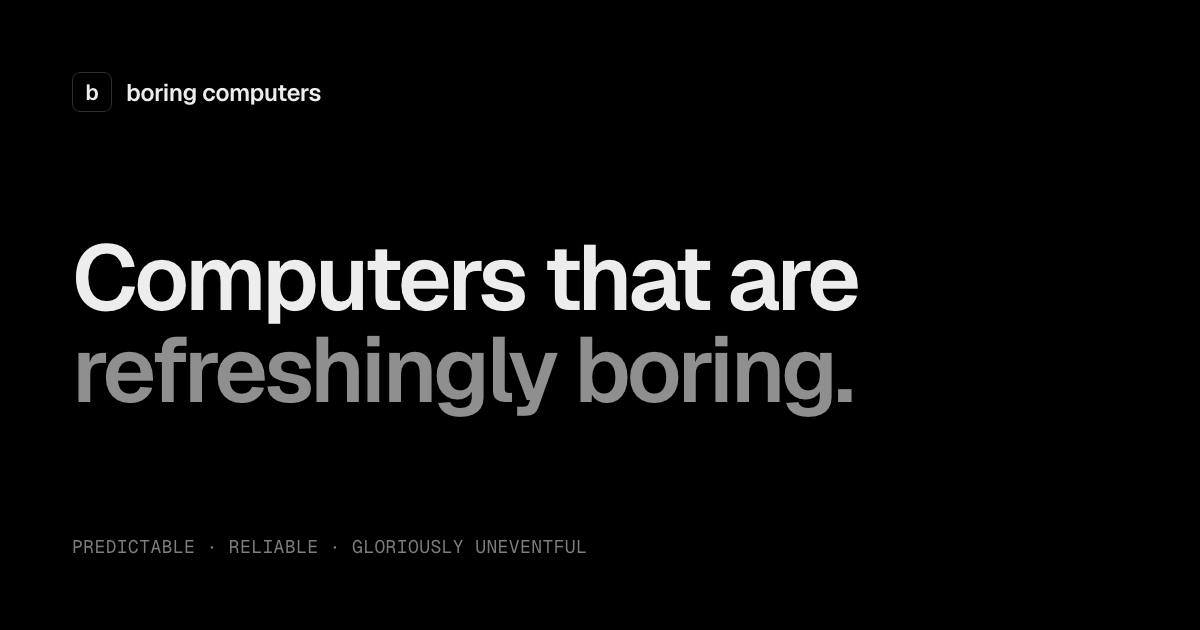
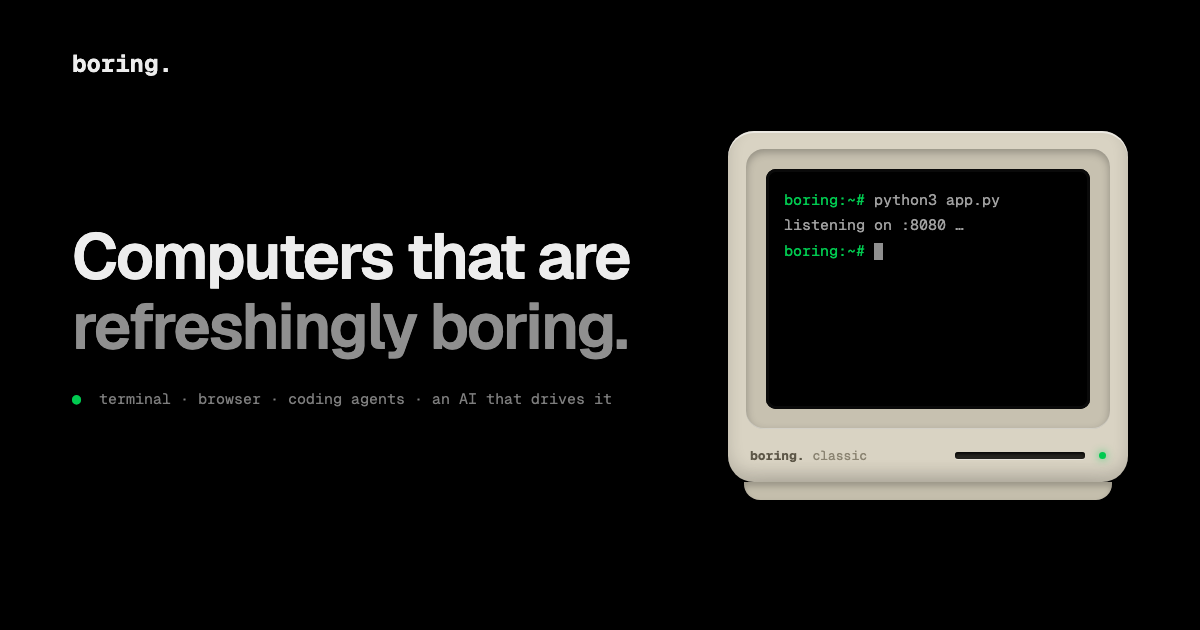
Feature: file upload / download
Drag a file onto the computer to upload it to /root; a path box downloads a file
back out. boringd (files.go) starts a one-shot node TCP helper in the guest via
a short serial command, then streams the file over the guest network — the
serial console can't move bulk data (tty input overflow past a few KB).
Verified byte-identical round-trips at 8 KB and 1 MB. Needs a connected machine
(desktop or internet-on shell).

diff --git a/apps/web/src/lib/Workstation.svelte b/apps/web/src/lib/Workstation.svelte
@@ -53,6 +53,63 @@
 		if (e.key === 'Enter') openPreview();
 	}
 
+	// File transfer: drag-drop to upload into /root, a path box to download.
+	let dragOver = $state(false);
+	let fileMsg = $state('');
+	let dlPath = $state('');
+
+	async function uploadFiles(files: FileList | File[]) {
+		if (!machine) return;
+		for (const f of Array.from(files)) {
+			fileMsg = `⤒ uploading ${f.name}…`;
+			try {
+				const res = await fetch(`${apiBase}/v1/machines/${machine.id}/upload`, {
+					method: 'POST',
+					headers: { 'X-Filename': f.name },
+					body: f
+				});
+				const j = await res.json().catch(() => ({}));
+				fileMsg = res.ok ? `⤒ ${f.name} → ${j.path}` : `⚠ ${j.error ?? 'upload failed'}`;
+			} catch {
+				fileMsg = '⚠ upload failed';
+			}
+		}
+		setTimeout(() => (fileMsg = ''), 5000);
+	}
+
+	async function downloadFile() {
+		const p = dlPath.trim();
+		if (!p || !machine) return;
+		fileMsg = `⤓ fetching ${p}…`;
+		try {
+			const res = await fetch(
+				`${apiBase}/v1/machines/${machine.id}/download?path=${encodeURIComponent(p)}`
+			);
+			if (!res.ok) {
+				const j = await res.json().catch(() => ({}));
+				fileMsg = `⚠ ${j.error ?? 'not found'}`;
+			} else {
+				const blob = await res.blob();
+				const url = URL.createObjectURL(blob);
+				const a = document.createElement('a');
+				a.href = url;
+				a.download = p.split('/').pop() || 'file';
+				a.click();
+				URL.revokeObjectURL(url);
+				fileMsg = `⤓ downloaded ${a.download}`;
+			}
+		} catch {
+			fileMsg = '⚠ download failed';
+		}
+		setTimeout(() => (fileMsg = ''), 5000);
+	}
+
+	function onDrop(e: DragEvent) {
+		e.preventDefault();
+		dragOver = false;
+		if (e.dataTransfer?.files?.length) void uploadFiles(e.dataTransfer.files);
+	}
+
 	let countdown: ReturnType<typeof setInterval> | null = null;
 	let onResize: (() => void) | null = null;
 	let disposed = false;
@@ -288,7 +345,25 @@
 	}
 </script>
 
-<div class="flex h-full flex-col bg-black font-mono text-[12px]">
+<!-- svelte-ignore a11y_no_static_element_interactions -->
+<div
+	class="relative flex h-full flex-col bg-black font-mono text-[12px]"
+	ondragover={(e) => {
+		if (phase === 'live') {
+			e.preventDefault();
+			dragOver = true;
+		}
+	}}
+	ondragleave={() => (dragOver = false)}
+	ondrop={onDrop}
+>
+	{#if dragOver}
+		<div
+			class="pointer-events-none absolute inset-0 z-20 flex items-center justify-center border-2 border-dashed border-accent/70 bg-black/70 text-[13px] text-ink"
+		>
+			drop to upload into /root
+		</div>
+	{/if}
 	<!-- status + tabs -->
 	<div class="flex items-center justify-between border-b border-line/70 px-3 py-1.5">
 		<div class="flex min-w-0 items-center gap-2 text-ink-muted">
@@ -360,6 +435,24 @@
 			</div>
 		{/if}
 	</div>
+
+	<!-- file bar: drag-drop upload feedback + download -->
+	{#if phase === 'live'}
+		<div class="flex items-center gap-2 border-t border-line/70 bg-black px-3 py-1 text-[11px]">
+			<span class="min-w-0 flex-1 truncate {fileMsg ? 'text-ink-muted' : 'text-ink-faint'}">
+				{fileMsg || 'drag a file in to upload it to /root'}
+			</span>
+			<input
+				bind:value={dlPath}
+				onkeydown={(e) => e.key === 'Enter' && downloadFile()}
+				placeholder="/root/result.txt"
+				class="w-40 rounded-[4px] border border-line bg-black px-1.5 py-0.5 text-ink placeholder:text-ink-faint focus:border-white/25 focus:outline-none"
+			/>
+			<button class="text-ink-subtle transition-colors hover:text-ink" onclick={downloadFile}
+				>download ↓</button
+			>
+		</div>
+	{/if}
 
 	<!-- AI prompt box -->
 	<div class="border-t border-line/70 bg-surface px-3 py-2">

diff --git a/apps/web/src/routes/+layout.svelte b/apps/web/src/routes/+layout.svelte
@@ -1,12 +1,31 @@
 <script lang="ts">
 	import './layout.css';
 	import { resolve } from '$app/paths';
+	import { page } from '$app/state';
 	import favicon from '$lib/assets/favicon.svg';
 
 	let { children } = $props();
+
+	const SITE = 'https://boringcomputers.com';
+	const OG_DESC =
+		'Instant Firecracker microVMs with a terminal, a real browser, coding agents preinstalled, and an AI that drives them.';
 </script>
 
-<svelte:head><link rel="icon" href={favicon} /></svelte:head>
+<svelte:head>
+	<link rel="icon" href={favicon} />
+	<meta property="og:site_name" content="Boring Computers" />
+	<meta property="og:type" content="website" />
+	<meta property="og:title" content="Computers that are refreshingly boring." />
+	<meta property="og:description" content={OG_DESC} />
+	<meta property="og:url" content="{SITE}{page.url.pathname}" />
+	<meta property="og:image" content="{SITE}/og.png" />
+	<meta property="og:image:width" content="1200" />
+	<meta property="og:image:height" content="630" />
+	<meta name="twitter:card" content="summary_large_image" />
+	<meta name="twitter:title" content="Computers that are refreshingly boring." />
+	<meta name="twitter:description" content={OG_DESC} />
+	<meta name="twitter:image" content="{SITE}/og.png" />
+</svelte:head>
 
 <nav
 	class="max-w-4xl mx-auto absolute inset-x-0 top-0 z-20 flex items-center justify-between px-5 py-4 font-mono text-[12px]"

diff --git a/boringd/files.go b/boringd/files.go
@@ -1,0 +1,140 @@
+package main
+
+import (
+	"fmt"
+	"io"
+	"net"
+	"net/http"
+	"path"
+	"strings"
+	"time"
+)
+
+// File transfer. The serial console can't move bulk data (the guest tty input
+// buffer overflows past a few KB), so instead we send a short command over the
+// console to spin up a one-shot node TCP helper in the guest, then stream the
+// file over the guest network (host->guest works via the bridge). node ships in
+// both the shell and desktop images. Requires a connected machine (needs an IP).
+
+const fileSizeCap = 16 << 20 // 16 MiB
+
+func sanitizeName(name string) string {
+	name = path.Base(strings.TrimSpace(name))
+	name = strings.Map(func(r rune) rune {
+		switch {
+		case r >= 'a' && r <= 'z', r >= 'A' && r <= 'Z', r >= '0' && r <= '9', r == '.', r == '_', r == '-':
+			return r
+		default:
+			return '_'
+		}
+	}, name)
+	if name == "" || name == "." || name == ".." {
+		return "upload.bin"
+	}
+	return name
+}
+
+func shellQuote(s string) string { return "'" + strings.ReplaceAll(s, "'", `'\''`) + "'" }
+
+// xferPort picks a per-request port so back-to-back transfers don't collide on a
+// lingering listener.
+func xferPort() int { return 47000 + int(time.Now().UnixNano()/1e6%2000) }
+
+// dialGuest connects to the just-started guest helper, retrying while node boots.
+func dialGuest(ip string, port int) (net.Conn, error) {
+	addr := net.JoinHostPort(ip, fmt.Sprint(port))
+	var last error
+	for i := 0; i < 25; i++ {
+		if c, err := net.DialTimeout("tcp", addr, 800*time.Millisecond); err == nil {
+			return c, nil
+		} else {
+			last = err
+		}
+		time.Sleep(200 * time.Millisecond)
+	}
+	return nil, last
+}
+
+func (s *Server) guestFor(id string) (*Console, string, bool) {
+	console, ok := s.mgr.Console(id)
+	if !ok {
+		return nil, "", false
+	}
+	ip, ok := guestIP(id, s.cfg.LeasesPath)
+	if !ok {
+		return nil, "", false
+	}
+	return console, ip, true
+}
+
+// handleUpload streams a file into the guest's /root over the network.
+func (s *Server) handleUpload(w http.ResponseWriter, r *http.Request) {
+	if r.ContentLength > fileSizeCap {
+		writeJSON(w, http.StatusRequestEntityTooLarge, map[string]any{"error": "file too big (16 MiB max)"})
+		return
+	}
+	console, ip, ok := s.guestFor(r.PathValue("id"))
+	if !ok {
+		writeJSON(w, http.StatusConflict, map[string]any{"error": "file transfer needs a connected computer (turn internet on / use a desktop)"})
+		return
+	}
+	name := sanitizeName(r.Header.Get("X-Filename"))
+	dest := "/root/" + name
+	port := xferPort()
+	cmd := fmt.Sprintf(
+		`node -e 'require("net").createServer(c=>{c.pipe(require("fs").createWriteStream(process.argv[1])).on("finish",()=>process.exit(0)).on("error",()=>process.exit(1))}).listen(%d)' %s 2>/dev/null &`+"\n",
+		port, shellQuote(dest))
+	console.Write([]byte(cmd))
+
+	conn, err := dialGuest(ip, port)
+	if err != nil {
+		writeJSON(w, http.StatusBadGateway, map[string]any{"error": "couldn't reach the computer's uploader"})
+		return
+	}
+	defer conn.Close()
+	n, _ := io.Copy(conn, io.LimitReader(r.Body, fileSizeCap))
+	if tcp, ok := conn.(*net.TCPConn); ok {
+		tcp.CloseWrite() // EOF -> the receiver finishes writing and exits
+	}
+	io.Copy(io.Discard, conn) // wait for the receiver to close
+	writeJSON(w, http.StatusOK, map[string]any{"ok": true, "path": dest, "bytes": n})
+}
+
+// handleDownload streams a file out of the guest over the network.
+func (s *Server) handleDownload(w http.ResponseWriter, r *http.Request) {
+	p := strings.TrimSpace(r.URL.Query().Get("path"))
+	if p == "" {
+		writeJSON(w, http.StatusBadRequest, map[string]any{"error": "path required"})
+		return
+	}
+	console, ip, ok := s.guestFor(r.PathValue("id"))
+	if !ok {
+		writeJSON(w, http.StatusConflict, map[string]any{"error": "file transfer needs a connected computer"})
+		return
+	}
+	port := xferPort()
+	cmd := fmt.Sprintf(
+		`node -e 'const r=require("fs").createReadStream(process.argv[1]);r.on("error",()=>process.exit(1));require("net").createServer(c=>{r.pipe(c);c.on("close",()=>process.exit(0))}).listen(%d)' %s 2>/dev/null &`+"\n",
+		port, shellQuote(p))
+	console.Write([]byte(cmd))
+
+	conn, err := dialGuest(ip, port)
+	if err != nil {
+		writeJSON(w, http.StatusBadGateway, map[string]any{"error": "couldn't reach the computer's downloader"})
+		return
+	}
+	defer conn.Close()
+	// Peek the first byte: a missing file makes node exit before sending anything.
+	first := make([]byte, 1)
+	conn.SetReadDeadline(time.Now().Add(10 * time.Second))
+	nr, _ := io.ReadFull(conn, first)
+	if nr == 0 {
+		writeJSON(w, http.StatusNotFound, map[string]any{"error": "no such file, or it's empty"})
+		return
+	}
+	conn.SetReadDeadline(time.Time{})
+	w.Header().Set("Content-Type", "application/octet-stream")
+	w.Header().Set("Content-Disposition", fmt.Sprintf("attachment; filename=%q", sanitizeName(path.Base(p))))
+	w.Write(first[:nr])
+	io.Copy(w, conn)
+}

diff --git a/boringd/server.go b/boringd/server.go
@@ -38,6 +38,10 @@ func NewServer(cfg Config, mgr *Manager) *Server {
 	s.mux.Handle("DELETE /v1/machines/{id}", s.auth(http.HandlerFunc(s.handleDelete)))
 	s.mux.Handle("POST /v1/machines/{id}/branch", s.auth(http.HandlerFunc(s.handleBranch)))
 
+	// File transfer over the guest serial console.
+	s.mux.Handle("POST /v1/machines/{id}/upload", s.auth(http.HandlerFunc(s.handleUpload)))
+	s.mux.Handle("GET /v1/machines/{id}/download", s.auth(http.HandlerFunc(s.handleDownload)))
+
 	// WebSocket TTY + VNC. Auth is handled inside (accepts ?token= too).
 	s.mux.HandleFunc("GET /v1/machines/{id}/tty", s.handleTTY)
 	s.mux.HandleFunc("GET /v1/machines/{id}/vnc", s.handleVNC)